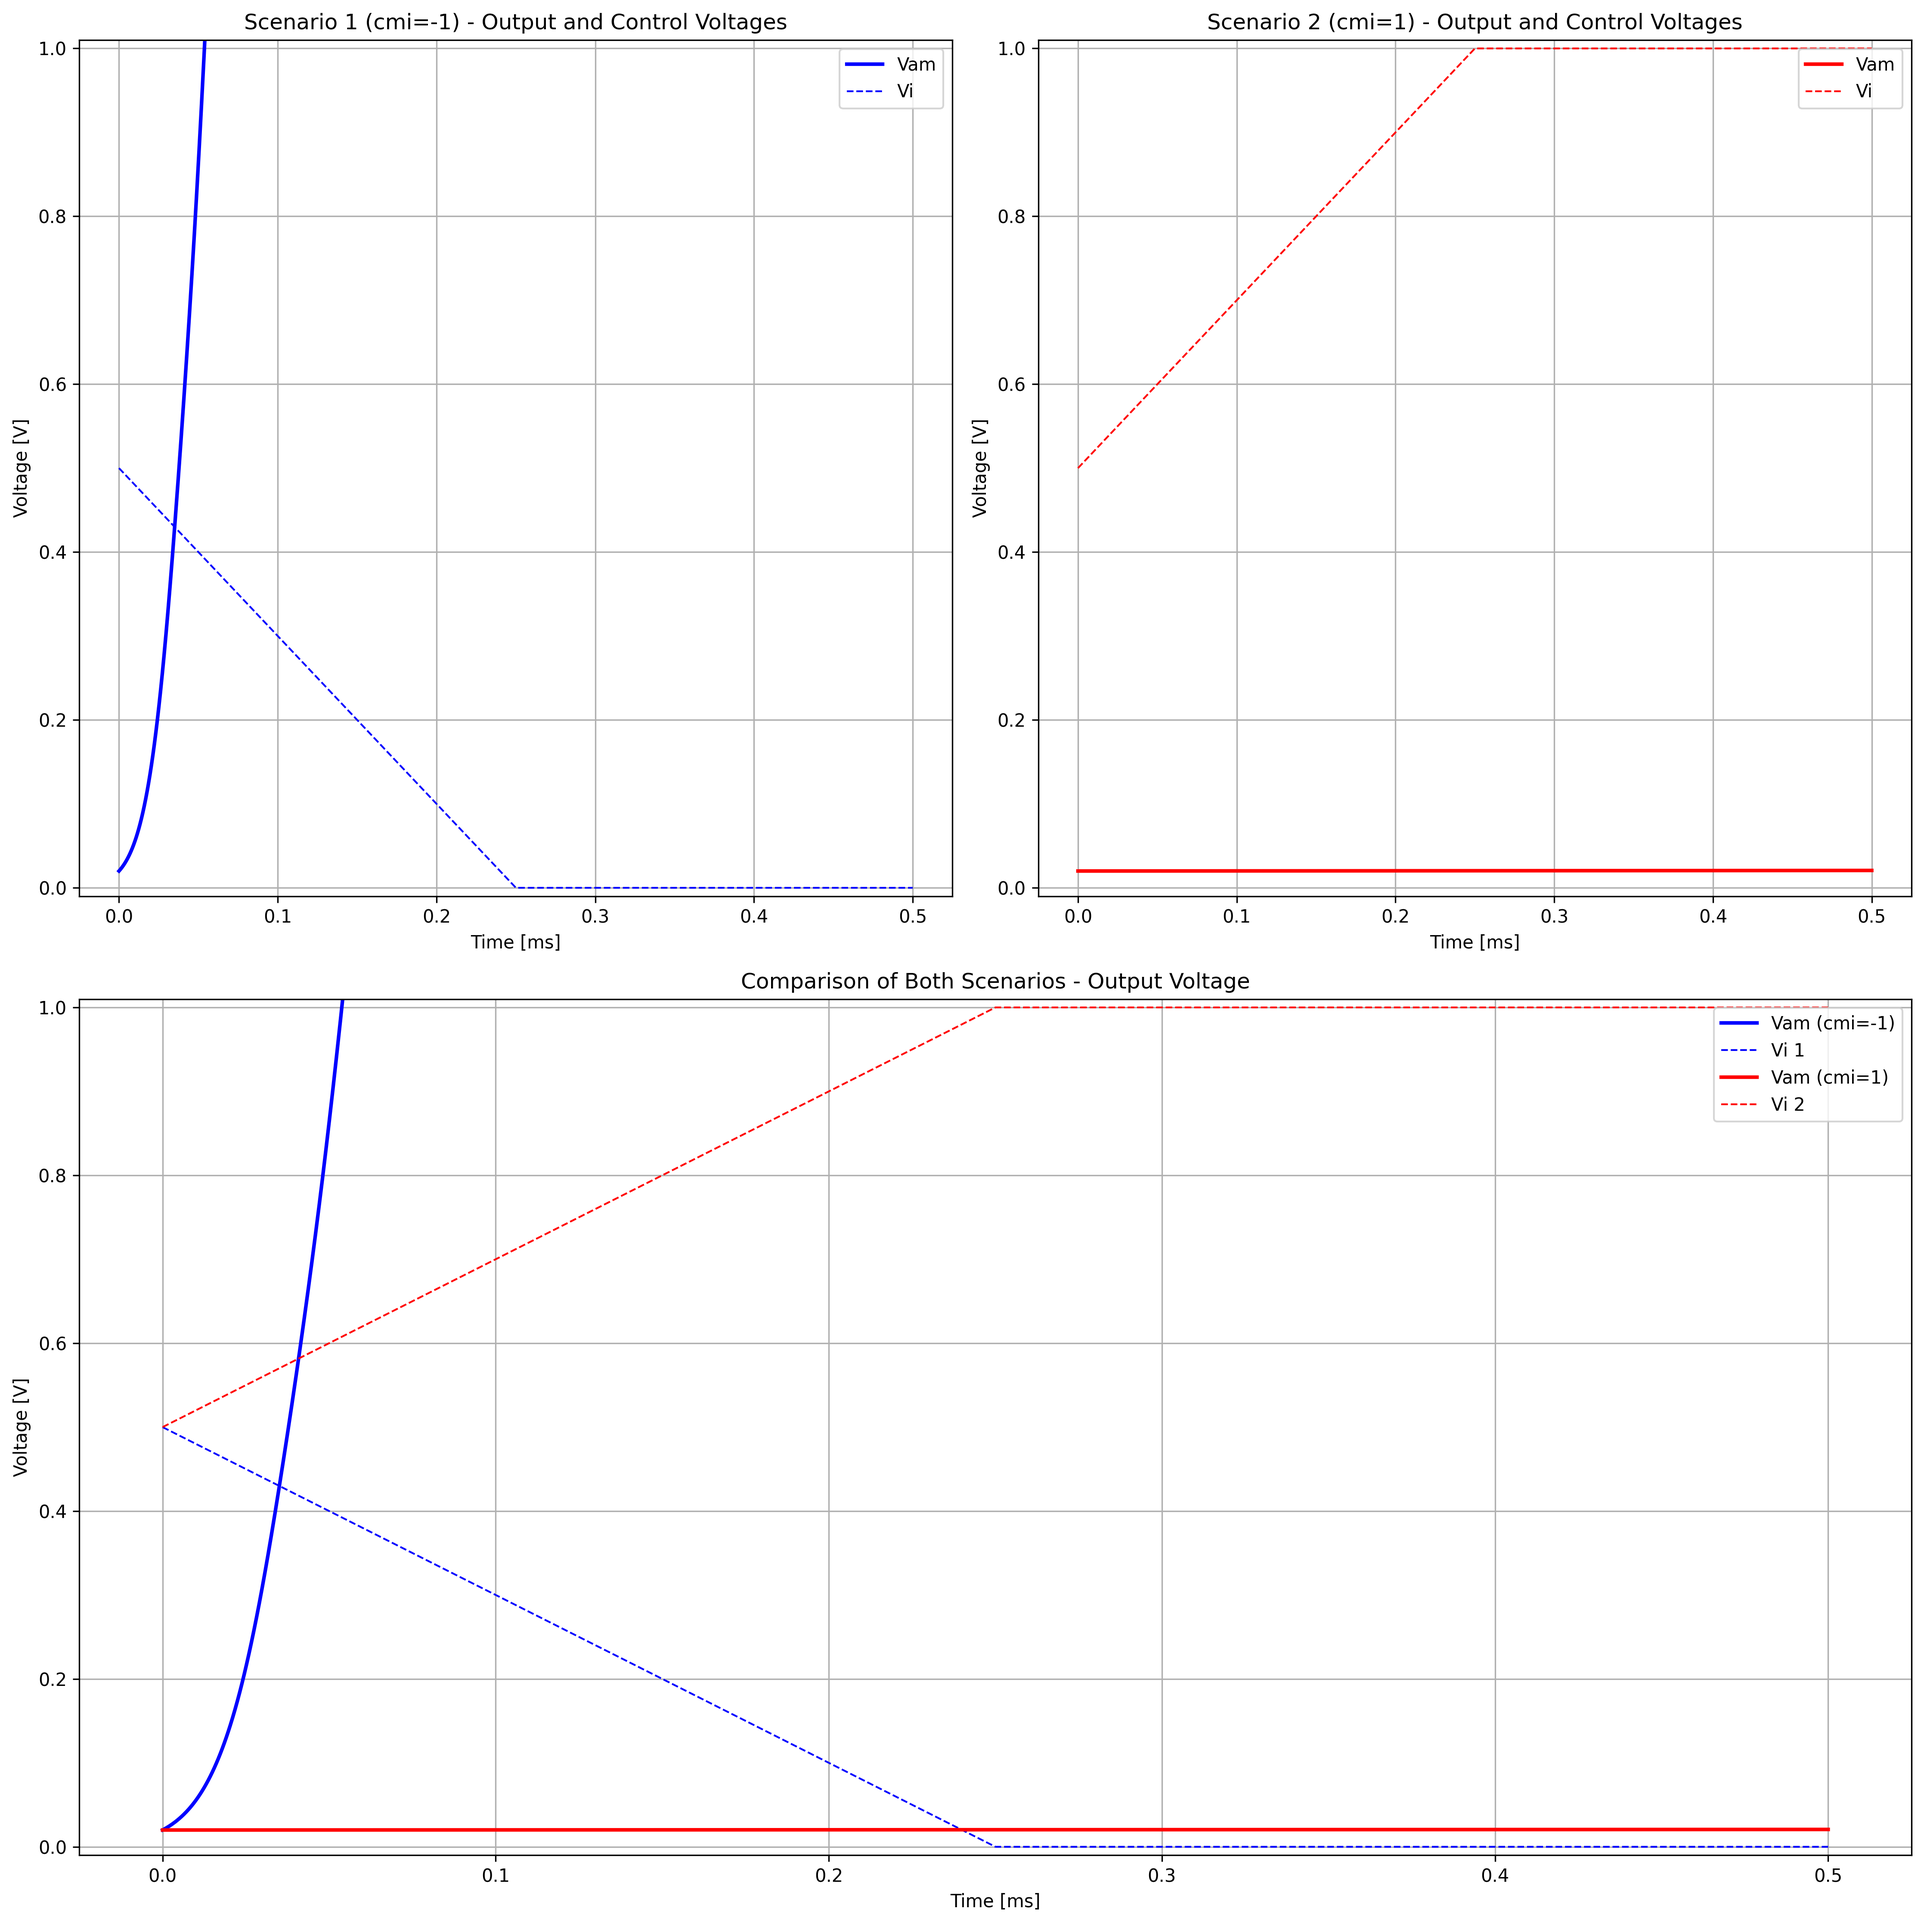
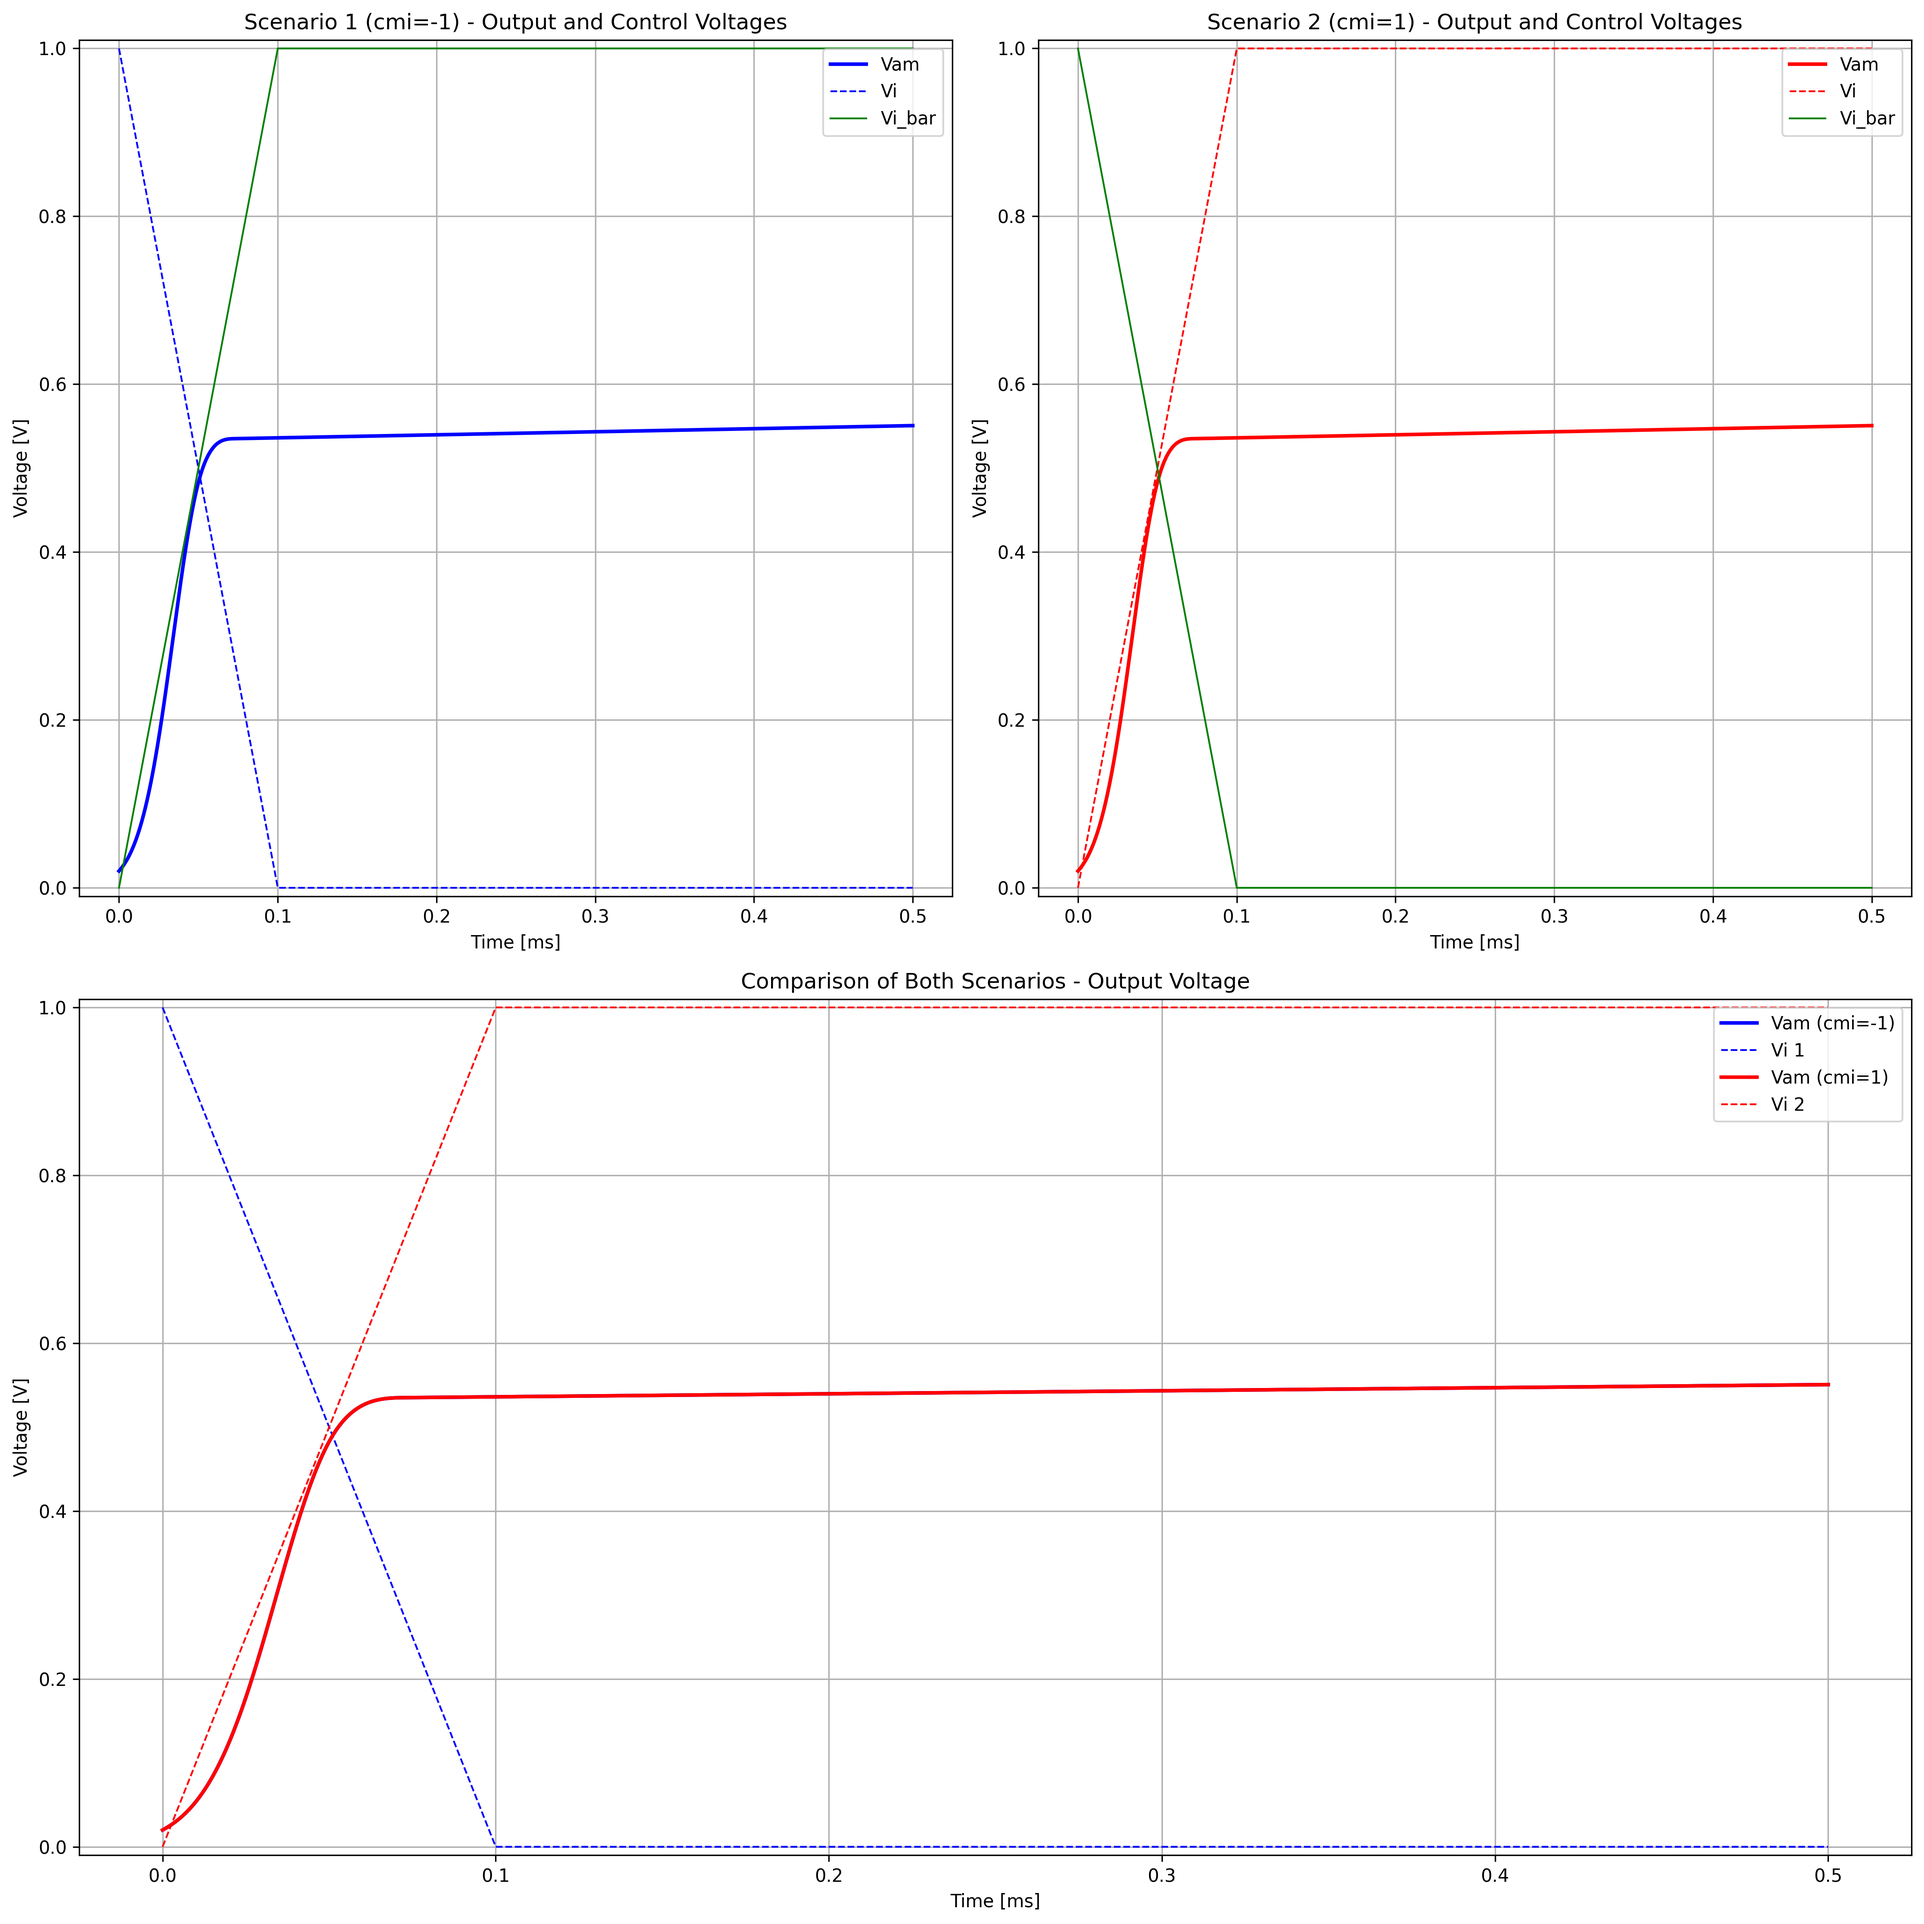
Working am_full

diff --git a/src/am_full.py b/src/am_full.py
@@ -1,6 +1,6 @@
 import PySpice.Logging.Logging as Logging
 from PySpice.Spice.Netlist import Circuit, SubCircuit
-from PySpice.Unit import u_V, u_Ω, u_ms, u_us, u_F
+from PySpice.Unit import u_V, u_Ω, u_ms, u_us
 import matplotlib.pyplot as plt
 import numpy as np
 import os
@@ -20,12 +20,13 @@ class AMFull(SubCircuit):
     
     Nodes:
     - vam: Output voltage of the circuit
-    - gnd: Ground reference
     - vi1: Control voltage 1 for first pair of variable resistances
     - vi2: Control voltage 2 for second pair of variable resistances
     - vi3: Control voltage 3 for third pair of variable resistances
+    - vdd: Power supply
+    - gnd: Ground reference
     """
-    NODES = ('vam', 'n1', 'gnd', 'vi1', 'vi2', 'vi3')
+    NODES = ('vam', 'n1', 'vi1', 'vi2', 'vi3', 'vdd', 'gnd')
     
     def __init__(self, cm1, cm2, cm3, C=0.01e-6, gain=2.0):
         """
@@ -38,8 +39,8 @@ class AMFull(SubCircuit):
             C (float): Capacitance value in farads (default: 0.01μF)
             gain (float): Gain of the AM circuit (default: 2.0)
         """
-        super().__init__(f'AMFull_{C}', *self.NODES)
-            
+        super().__init__(f'AMFull_{cm1}_{cm2}_{cm3}_{C}_{gain}', *self.NODES)
+        
         # Add the AMCircuit subcircuit
         am = AMCircuit(C=C, gain=gain)
         self.subcircuit(am)
@@ -69,9 +70,9 @@ class AMFull(SubCircuit):
             self.R('r13', r_node2, am.RB, R)
         else:
             # 3 variable resistances in series
-            self.X('var_res11', var_res1.NAME, 'vi1', am.RA, r_node1, 'vdd', 'gnd')
-            self.X('var_res12', var_res2.NAME, 'vi2', r_node1, r_node2, 'vdd', 'gnd')
-            self.X('var_res13', var_res3.NAME, 'vi3', r_node2, am.RB, 'vdd', 'gnd')
+            self.X('var_res11', var_res1.name, 'vi1', am.RA, r_node1, 'vdd', 'gnd')
+            self.X('var_res12', var_res2.name, 'vi2', r_node1, r_node2, 'vdd', 'gnd')
+            self.X('var_res13', var_res3.name, 'vi3', r_node2, am.RB, 'vdd', 'gnd')
 
 
 # Function to run simulation for a specific scenario
@@ -84,23 +85,30 @@ def simulate_scenario(scenario_name, cmi_values, vi_points):
     
     # Create a new circuit for this scenario
     scenario_circuit = Circuit(f'AMFull Test - {scenario_name}')
+
+    # Add power supply
+    vdd = 1
+    scenario_circuit.V('dd', 'vdd', scenario_circuit.gnd, vdd@u_V)
     
     # Create the AMFull subcircuit with the specified cmi values
     am_full = AMFull(cm1=cmi_values[0], cm2=cmi_values[1], cm3=cmi_values[2], C=C, gain=gain)
     scenario_circuit.subcircuit(am_full)
     
     # Instantiate the AMFull circuit
-    scenario_circuit.X('am_full', am_full.name, 'vam', 'n1', scenario_circuit.gnd, 'vi', 'vi', 'vi')
+    scenario_circuit.X('am_full', am_full.name, 'vam', 'n1', 'vi', 'vi', 'vi', 'vdd', scenario_circuit.gnd)
     
     # Use a more stable approach for ramping vi with PWL (piece-wise linear)
     # Define time points for the PWL source
     end_time_value = float(0.5e-3)  # 0.5ms in seconds
-    time_points = [0, end_time_value/2, end_time_value]
+    time_points = np.linspace(0, end_time_value, len(vi_points))
     
     # Create PWL (Piece-Wise Linear) source for vi
     scenario_circuit.PieceWiseLinearVoltageSource('vi_src', 'vi_src', scenario_circuit.gnd,
                                                 values=[(t, v) for t, v in zip(time_points, vi_points)])
     scenario_circuit.R('vi_r', 'vi_src', 'vi', 10@u_Ω)
+
+    # For debugging only
+    scenario_circuit.VCVS('inv', 'vi_bar', 'gnd', 'vdd', 'vi', 1)
 
     # Set simulation parameters - shorter time to see exponential growth
     step_time = 0.1@u_us  # Increased step time for better convergence
@@ -150,33 +158,44 @@ def test_am_full_circuit():
     # scenario1_vi_points = [0, 0]
     # scenario2_vi_points = [Vdd, Vdd]
     # Towards satisfied
-    scenario1_vi_points = [Vdd/2, 0, 0]
-    scenario2_vi_points = [Vdd/2, Vdd, Vdd]
+    scenario1_vi_points = [Vdd] + [0] * 5
+    scenario2_vi_points = [0] + [Vdd] * 5
 
     # Run both scenarios with better error handling
     try:
         # Try to run both scenarios
         analysis1 = simulate_scenario("Scenario 1 (cmi=-1)", scenario1_cmis, scenario1_vi_points)
         analysis2 = simulate_scenario("Scenario 2 (cmi=1)", scenario2_cmis, scenario2_vi_points)
-        
+
         # Process and plot results
         time1 = np.array(analysis1.time)
         vam1 = np.array(analysis1['vam'])
         vi1 = np.array(analysis1['vi'])
-        
+        vi_bar1 = np.array(analysis1['xam_full.xvar_res11.vi_bar'])
+
         time2 = np.array(analysis2.time)
         vam2 = np.array(analysis2['vam'])
         vi2 = np.array(analysis2['vi'])
+        vi_bar2 = np.array(analysis2['xam_full.xvar_res11.vi_bar'])
         
         # Create plots
         plt.figure(figsize=(15, 15))
 
         EPS = 0.01
+
+        # Print min and max of vi_bar
+        # print("analysis1 nodes:")
+        # for key in analysis1.nodes.keys():
+        #     print(f"{key}: {np.min(analysis1[key])}, {np.max(analysis1[key])}")
+        # print("analysis2 nodes:")
+        # for key in analysis2.nodes.keys():
+        #     print(f"{key}: {np.min(analysis2[key])}, {np.max(analysis2[key])}")
         
         # Plot for Scenario 1
         plt.subplot(2, 2, 1)
         plt.plot(time1 * 1000, vam1, 'b-', linewidth=2, label='Vam')
         plt.plot(time1 * 1000, vi1, 'b--', linewidth=1, label='Vi')
+        plt.plot(time1 * 1000, vi_bar1, 'g-', linewidth=1, label='Vi_bar')
         plt.xlabel('Time [ms]')
         plt.ylabel('Voltage [V]')
         plt.ylim(-EPS, Vdd+EPS)
@@ -188,6 +207,7 @@ def test_am_full_circuit():
         plt.subplot(2, 2, 2)
         plt.plot(time2 * 1000, vam2, 'r-', linewidth=2, label='Vam')
         plt.plot(time2 * 1000, vi2, 'r--', linewidth=1, label='Vi')
+        plt.plot(time2 * 1000, vi_bar2, 'g-', linewidth=1, label='Vi_bar')
         plt.xlabel('Time [ms]')
         plt.ylabel('Voltage [V]')
         plt.ylim(-EPS, Vdd+EPS)
